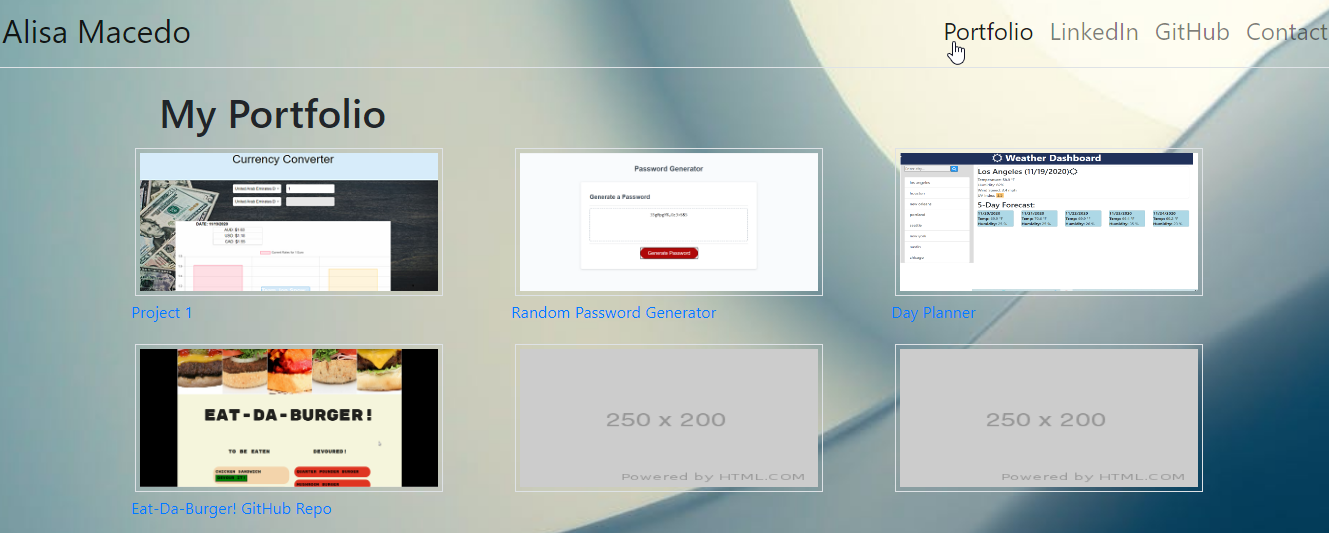
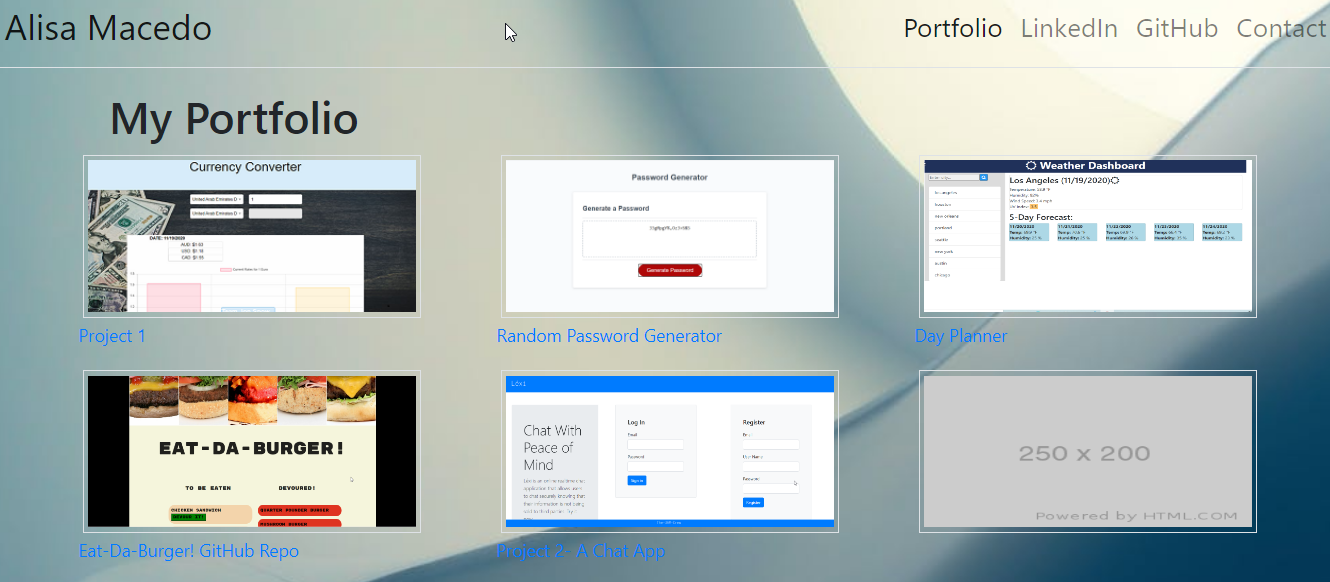
updating readme

diff --git a/README.md b/README.md
@@ -1,23 +1,19 @@
 # Unit 02 CSS and Bootstrap Homework: Responsive Portfolio
 
-This assignment is about designing a responsive website that works well on all trypes of screens.  design ensures that web applications render well on a variety of devices and window or screen sizes. Below are the things I did to make this website using Bootstrap. In this assignment, I created a website that will host my work and has several distinctive sections: Main page - about me, Contact, Portfolio that will host my work, and a link to an external website.
+This assignment is about designing a responsive website that works well on all trypes of screens.  Design ensures that web applications render well on a variety of devices and window or screen sizes. Below are the things I did to make this website using Bootstrap. In this assignment, I created a website that will host my work and has several distinctive sections: Main page - about me, Contact, Portfolio that will host my work, and a link to an external website.
 
 ## Work done
 * Created a mobile-responsive portfolio with images to be added at a later date, with placeholders in the meantime.
 * All pages- main, contact, and portfolio have a navigation pane thas't the same across the page
 * I created Bootsrtap containers with a responsive layout to hold my information, uding About me, Contact, adn Portfolio
-*The pages have working links to othe internal pages, as well as my LinkedIn (not updated! :))
+*The pages have working links to othe internal pages, as well as my LinkedIn and GitHub.
 *All pages gave been checked on my mobile phone to ensure responsiveness.
 *The images have been made responsive to screen change.
 
 ### Additional work done
-*I udpated this portolio to include links to my GitHub and resume
+*I udpated this portolio to include links to my GitHub, Heroku (Project 2), and resume
 *Udpated portfolio page with images of work and links to deployed apps
-*Updated some styling and added a new fontawesome link
 
-#### ISSUES 
-* Today I discovered that my 10-year-old computer doesn't print to pdf, so the link is to a word doc. 
-* I'd prefer not to update my picture until I take the one I like sometime at a later date, but before the end of this class
 
 ##### images
 ![Image of main page](./assets/images/pic1.png)
